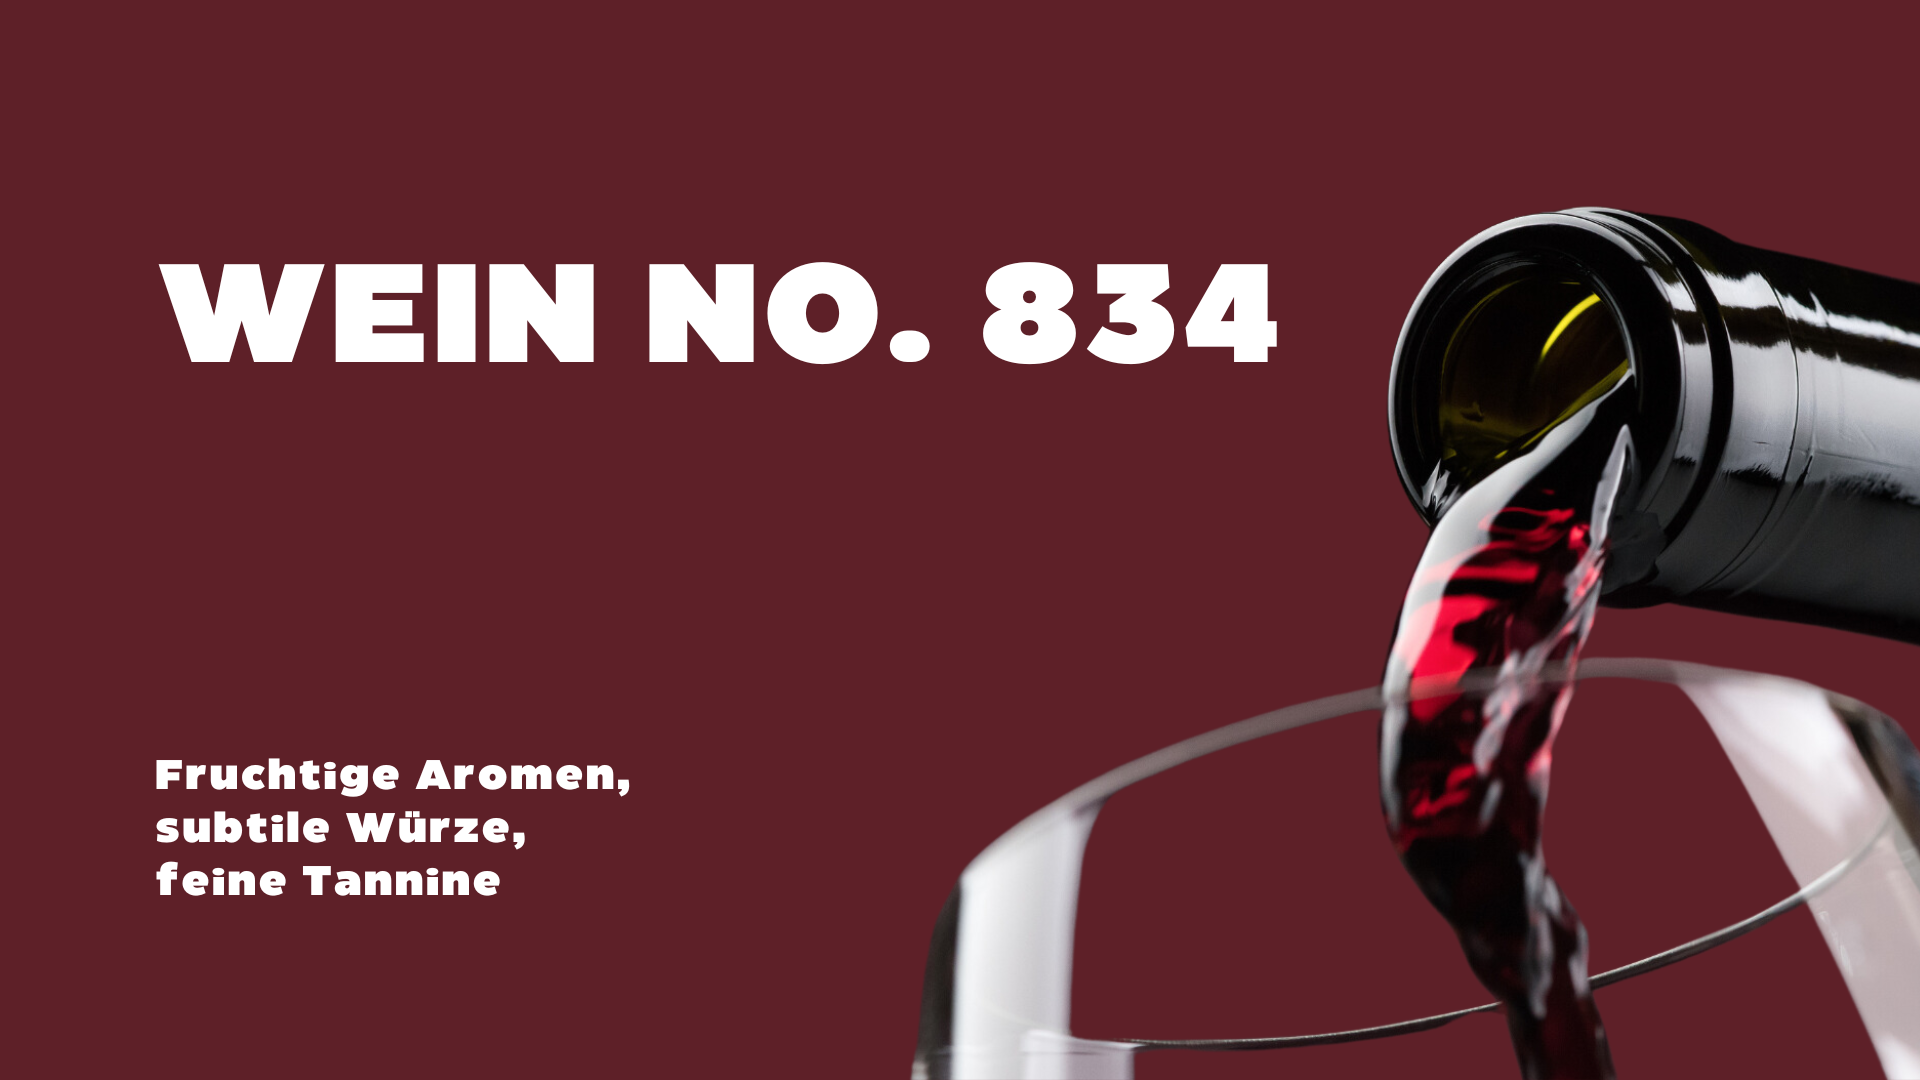
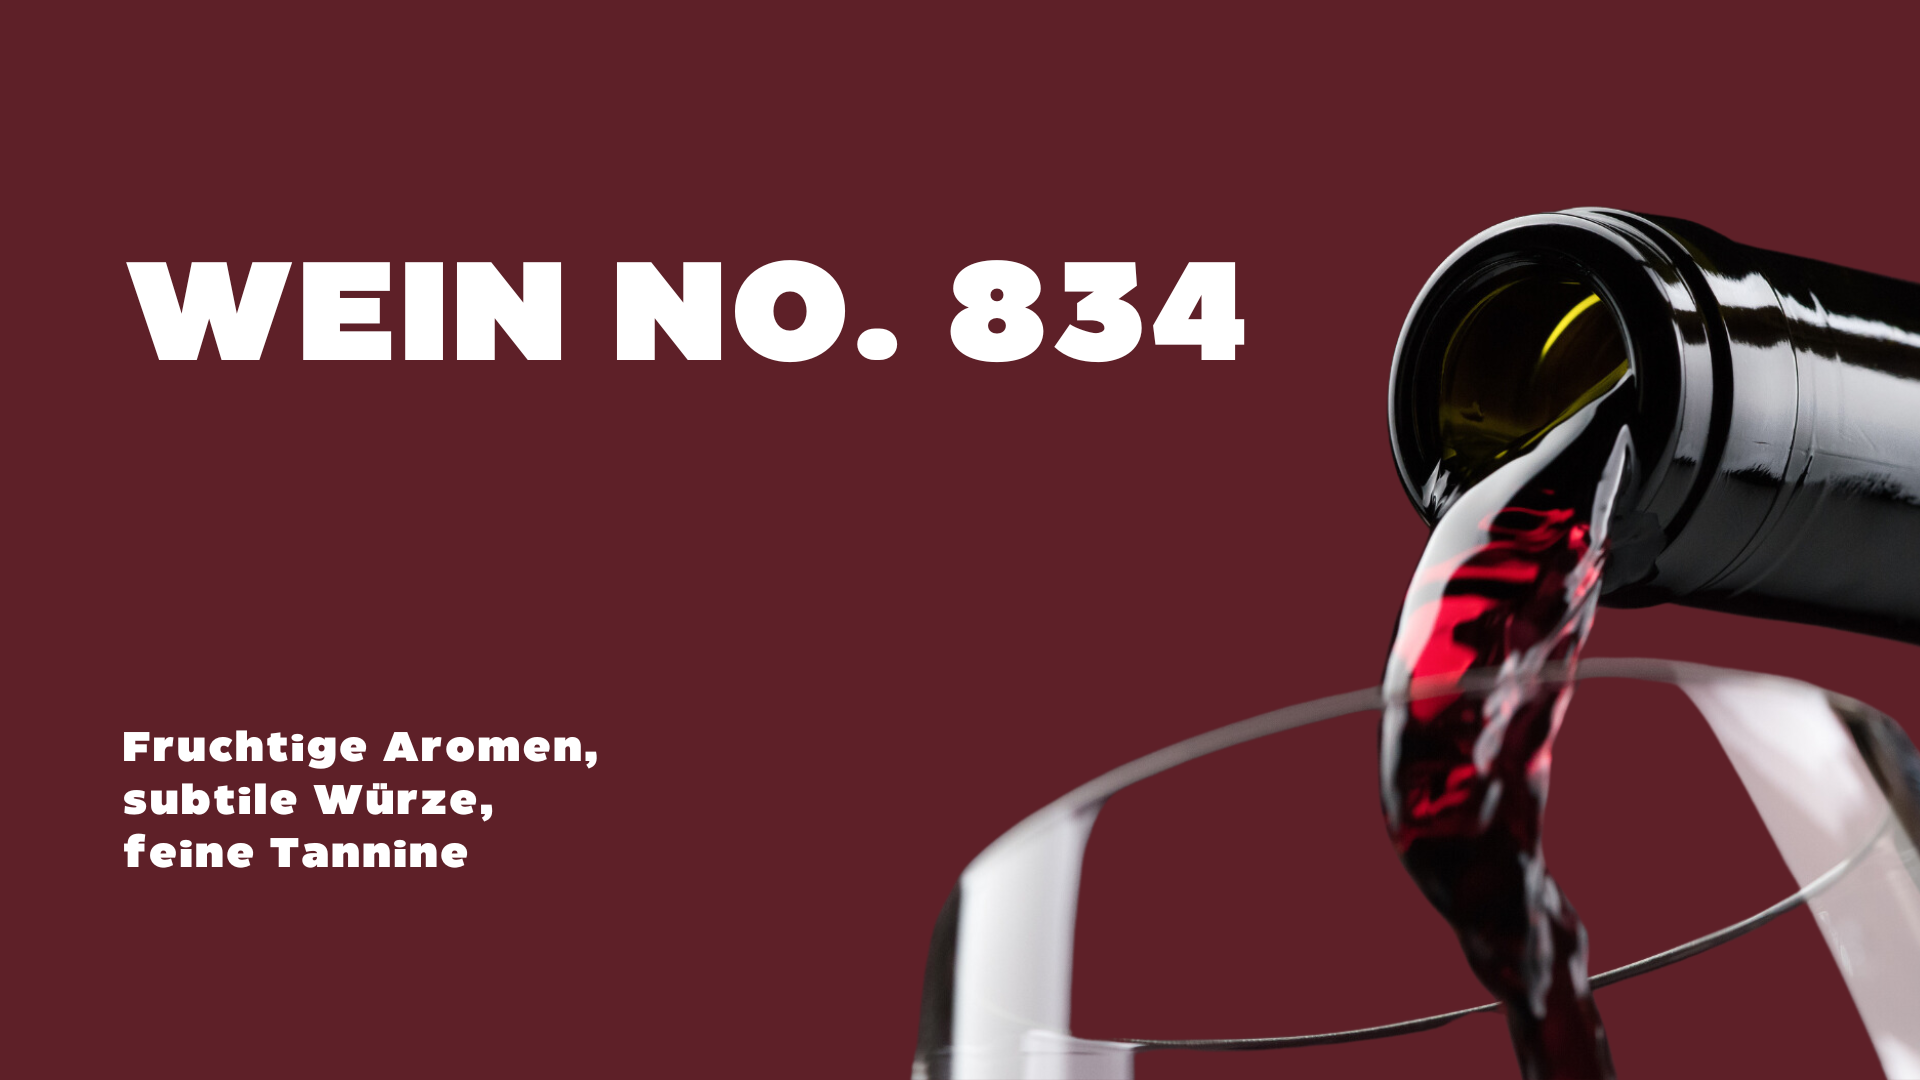
Bearbeitet

Changed region(s): [[0.0625, 0.2444, 0.6875, 0.3361], [0.0625, 0.6722, 0.3438, 0.825]]

diff --git a/Stylesheet.css b/Stylesheet.css
@@ -80,18 +80,6 @@ aside {
   background-position: center;
 }
 
-
-.hero-text {
-  position: absolute;
-  top: 53%;
-  left: 50%;
-  transform: translate(-50%, -50%);
-  color: #691e28;
-  font-size: 90px;
-  text-transform: uppercase;
-  font-weight: 700;
-}
-
 /* 2.Wine Bottles-Sektion*/
 .winebottles {
   display: flex;
